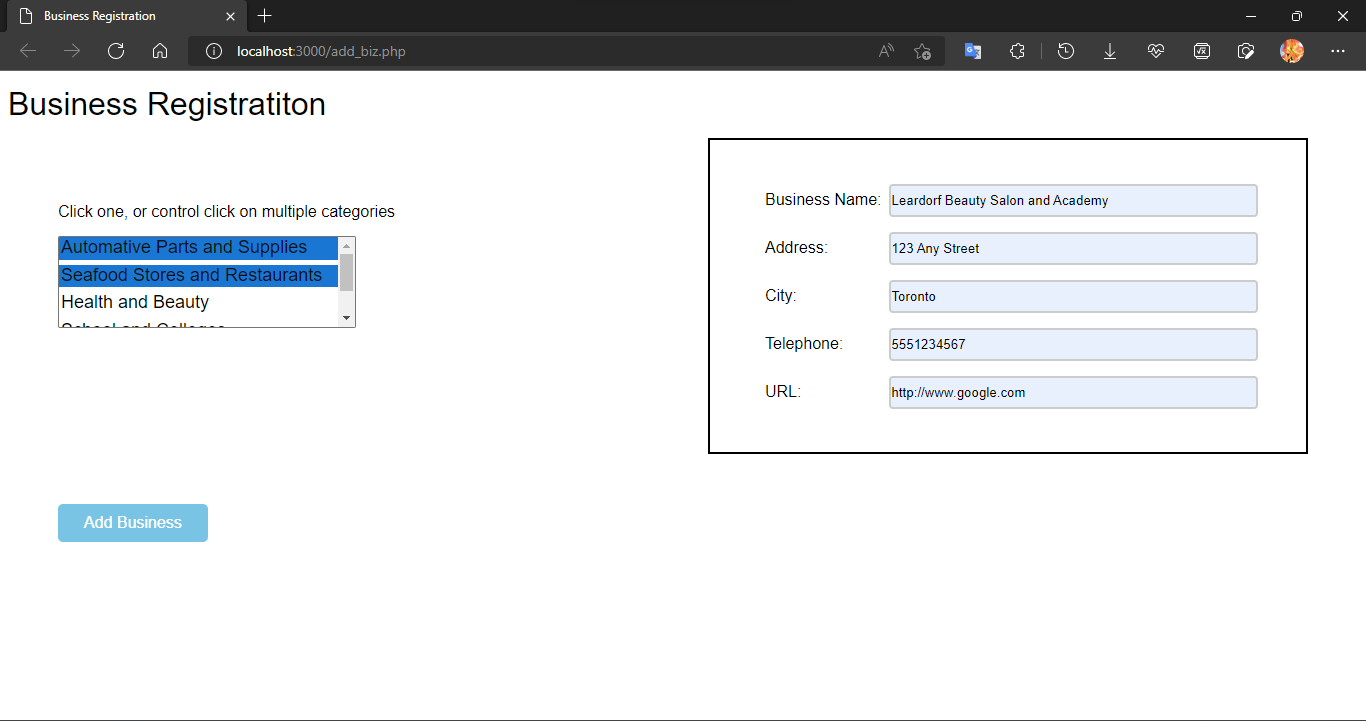
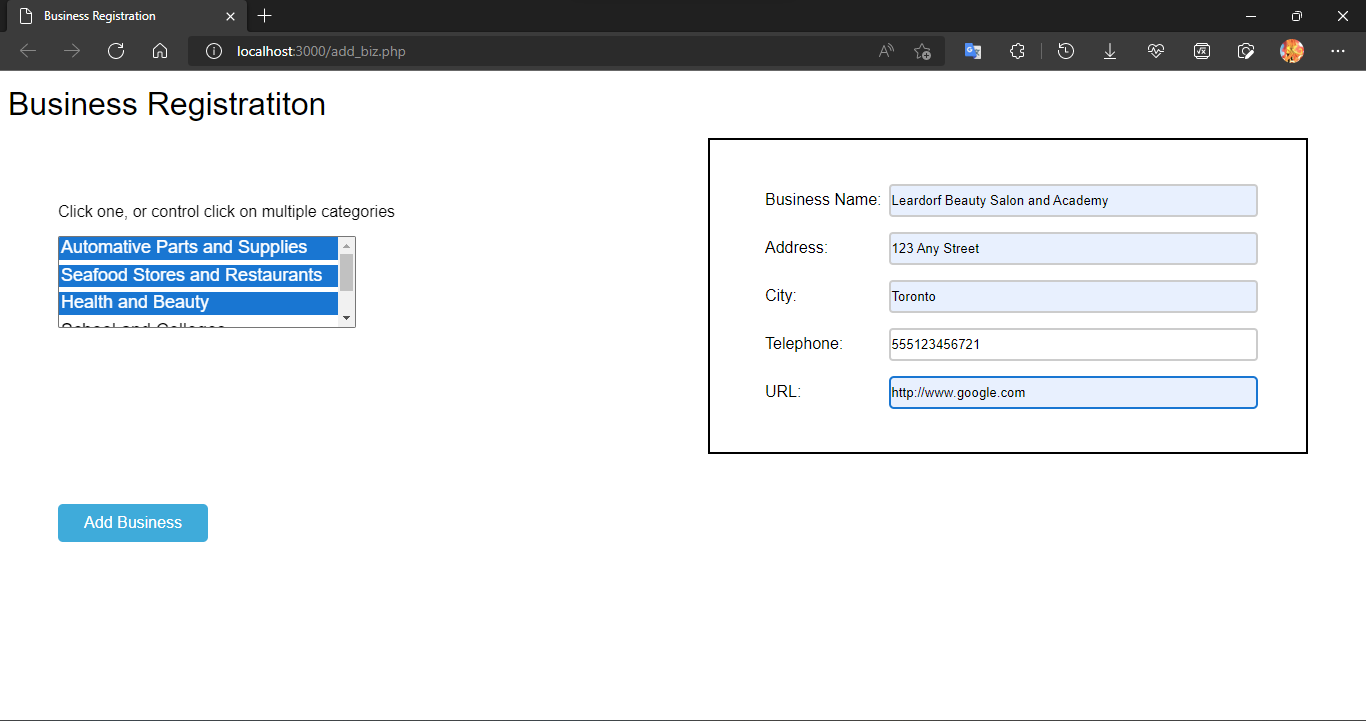
update 4.4

diff --git a/Lab 04/4.4/add_biz.php b/Lab 04/4.4/add_biz.php
@@ -115,6 +115,7 @@ if (isset($_POST['button'])) {
     
     option:checked {
         background-color: #1976d2;
+        color: #fff;
     }
 
     option::selection {
@@ -178,7 +179,6 @@ if (isset($_POST['button'])) {
             <?php if (isset($_POST['category'])) { ?>
                 <p>Selected category values are highlighted</p>
             <?php } else { ?>
-
                 <p>Click one, or control click on multiple categories</p>
             <?php } ?>
             <form method="post">
